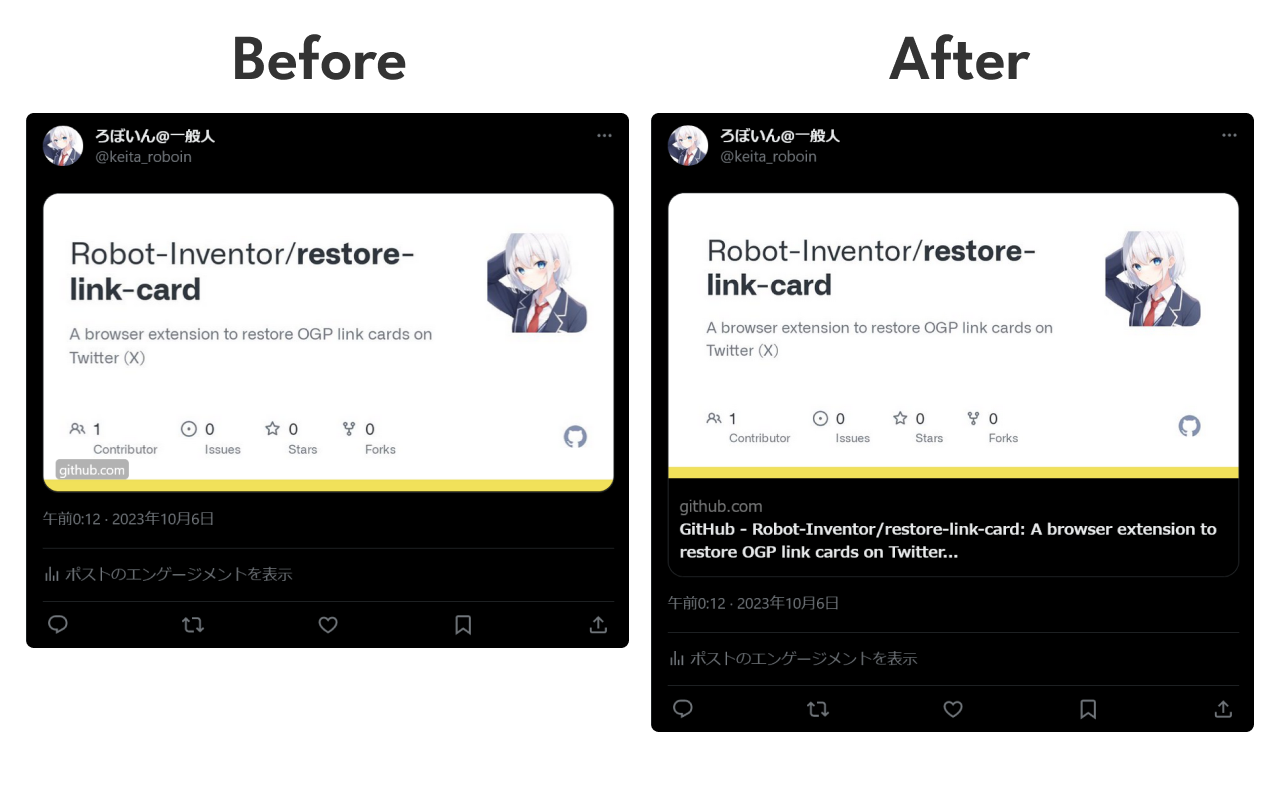
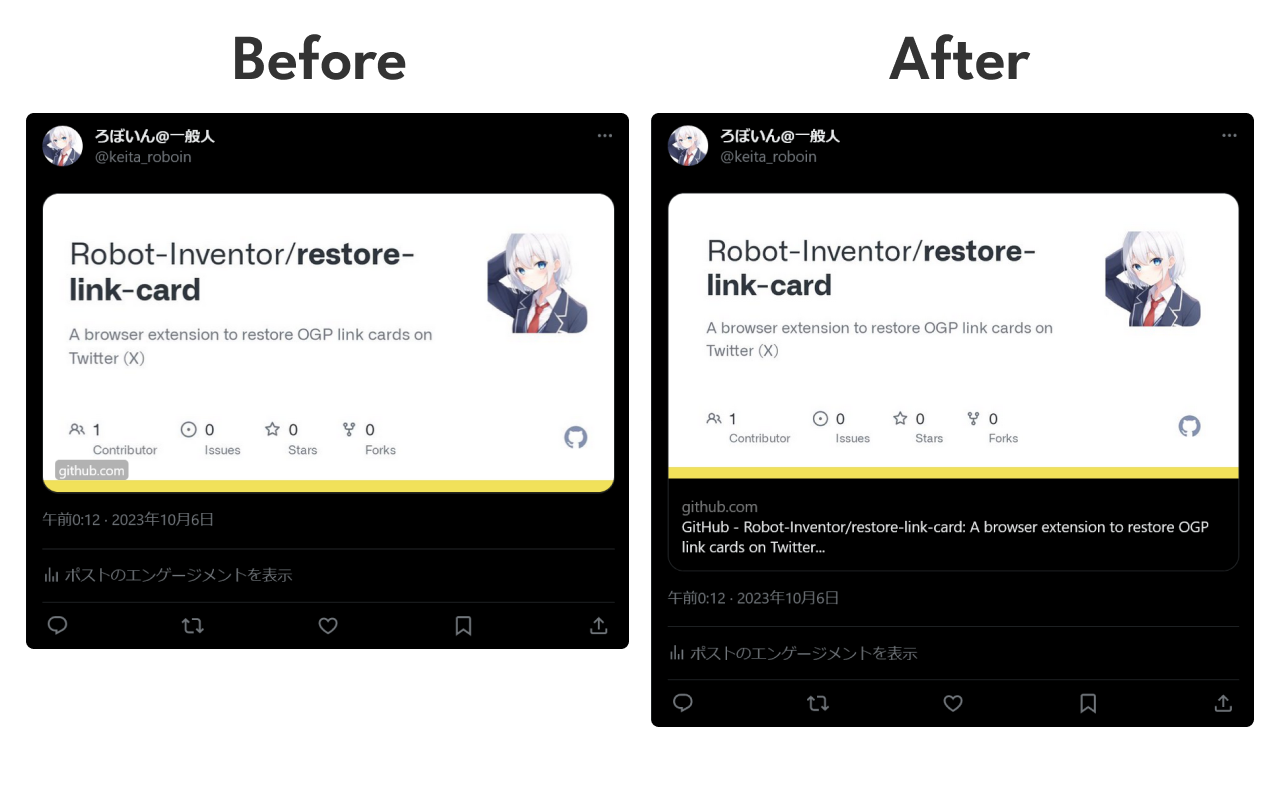
fix: bring the appearance closer to the original appearance

diff --git a/main.js b/main.js
@@ -51,7 +51,8 @@
 
             const textContainer = document.createElement("div");
             textContainer.style.color = textColor;
-            textContainer.style.padding = "0.75rem";
+            textContainer.style.padding = "0.75rem 0.9rem 0.9rem 0.9rem";
+            textContainer.style.fontFamily = "'Segoe UI',Meiryo,system-ui,-apple-system,BlinkMacSystemFont,sans-serif";
 
             const domainElement = document.createElement("div");
             domainElement.textContent = reactProps.children.props.vanity || "Error";
@@ -60,7 +61,6 @@
 
             const titleElement = document.createElement("div");
             titleElement.textContent = reactProps.children.props.title.content || "Error";
-            titleElement.style.fontWeight = "bold";
             textContainer.appendChild(titleElement);
 
             anchor.appendChild(textContainer);
